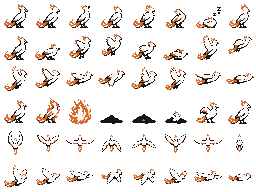
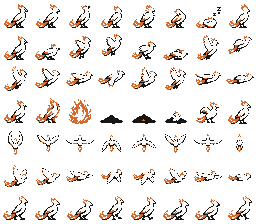
feat(phoenix): walk cycle, ground shadow, idle sleep, rebirth on the hour
Six changes, five of them from watching the bird rather than reading the code.

Walk replaces the hop. The short-distance gait reused the launch row's hop
frames, two of which are genuinely airborne, so crossing a small gap read as a
bird trying and failing to fly. Adds a seventh sheet row: a real eight-frame
walk cycle with at least one foot down in every frame. The frame advances on
distance covered rather than elapsed time, so the legs cannot outrun the body.

Ground shadow while airborne. Nothing in the sprite carries altitude - flying
straight up the screen looked identical to sliding up it, and head-on the
wings tell you it is flapping but not how high. The shadow shrinks, fades and
separates from the feet off one number, so a half-climb looks like one. It
follows var(--ink), which turns it white on the dark theme; a dark smudge on a
near-black page is an altitude cue nobody can see.

Flight slowed from 110px/s to 70px/s, which trails the cursor instead of
snapping to it.

Takeoff and landing stretched from 3 and 4 ticks to 5 and 7. The speed curve
was already there but had nowhere to happen in 300ms, so it still read as a
stutter. Landing is the longer of the two: shedding momentum should cost more
than spending it.

Idle sleep. Perching is the bird waiting for you; a pet that never gives up
waiting reads as a screensaver. It now dozes off after 25s of an untouched
mouse. Tracks why it is asleep, because an idle nap must break when the cursor
[…]

diff --git a/tools/phoenix/scripts/assemble_sheet.py b/tools/phoenix/scripts/assemble_sheet.py
@@ -12,7 +12,7 @@ ROOT = Path(__file__).resolve().parents[1]
 OUT = ROOT / "output"
 # Appended, never reordered: the engine indexes frames as row*8+col,
 # so inserting a row would silently repoint every later frame.
-ROWS = ["perched", "launch", "flight", "rebirth", "front", "quarter"]
+ROWS = ["perched", "launch", "flight", "rebirth", "front", "quarter", "walk"]
 CELL = 32
 
 sheet = Image.new("RGBA", (CELL * 8, CELL * len(ROWS)), (0, 0, 0, 0))
